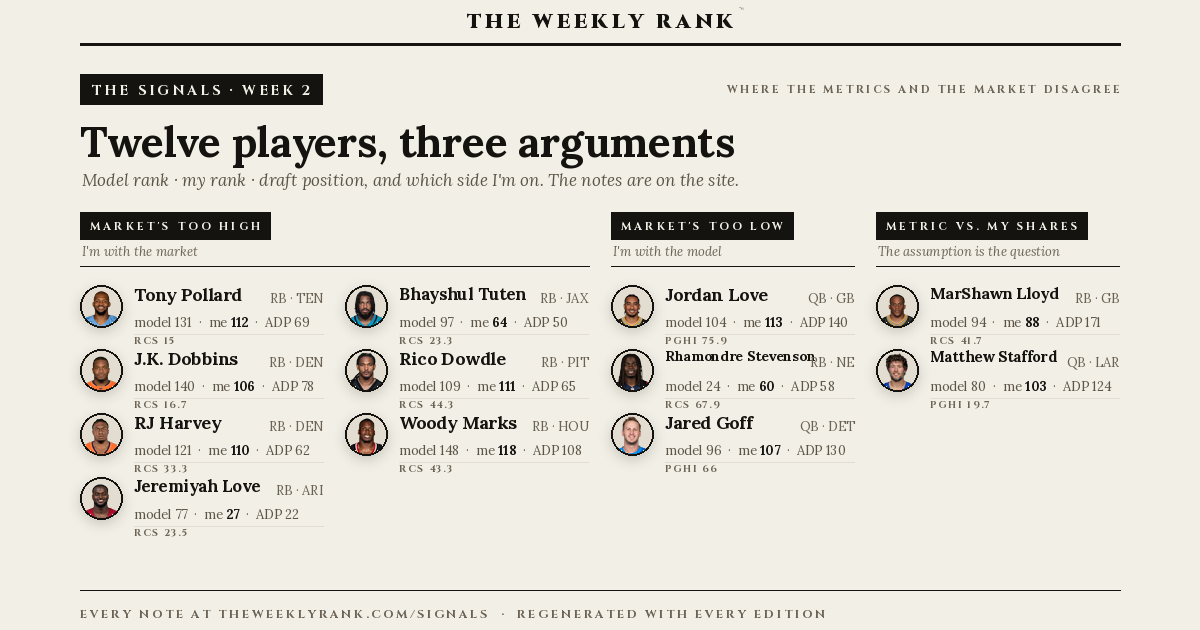
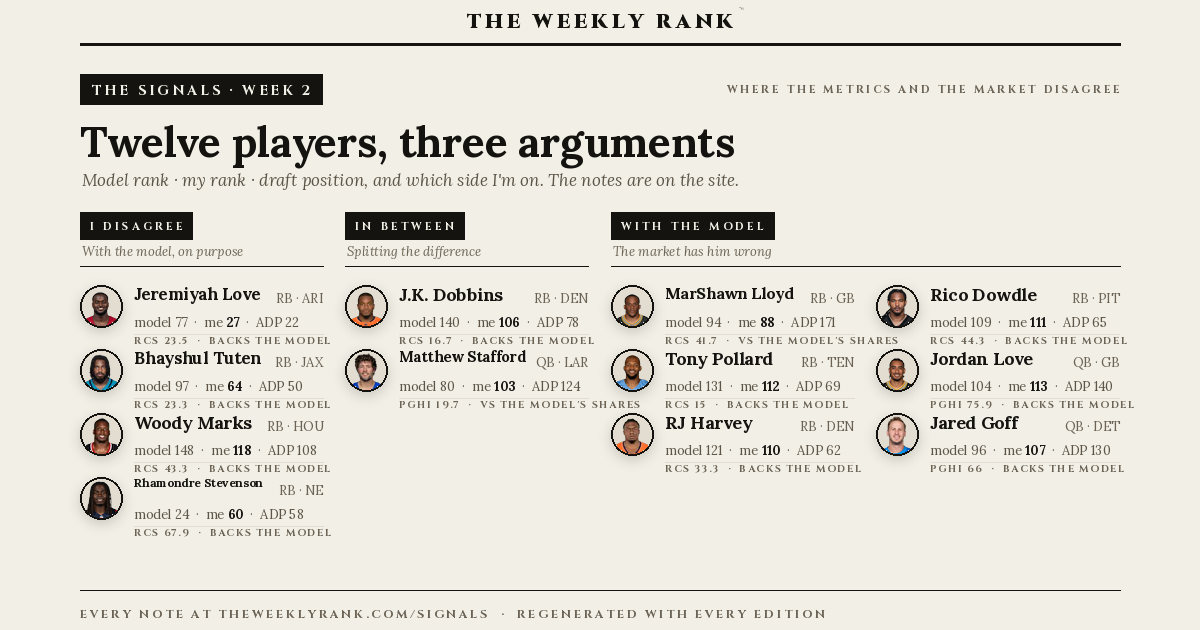
Signals: group by my stance (disagree with the model · in between · with the model); the metric's verdict stays on the row

diff --git a/src/_data/rankings.js b/src/_data/rankings.js
@@ -71,20 +71,31 @@ function loadSport(sport) {
 
 const keyOf = name => String(name || "").toLowerCase().replace(/[^a-z0-9 ]/g, "").replace(/\s+(jr|sr|ii|iii|iv)$/, "").trim();
 
-// the four signal groups in order, labels from the file's signalsMeta when it carries them
+// The Signals page groups by Costa's stance, not by the metric's direction (Sept 16): readers asked whose side
+// he is on, and "market's too high" was wrong for a player he had deliberately ranked near the market. Stance is
+// where his rank sits on the line from the market (ADP) to the model: past 65% of the way to the model is "with
+// the model", under 35% is "disagree with the model", the middle is "in between". The metric's own verdict
+// (backs the model, or argues with the model's shares) stays on the row as text. Same rule in make_signals_card.py.
 const SIGNAL_BOARD_MAX = 120;   // a signal on a player ranked below this is bench noise
 const SIGNAL_PAGE_MAX = 12;     // the page is a short list, not a census
-const SIGNAL_GROUPS = [["backs-over", "Metric backs model over market"], ["backs-under", "Metric backs model under market"],
-                       ["disagree", "Metric and shares disagree"], ["share-only", "Share-driven gap, no metric"]];
+const STANCES = [["market", "I disagree with the model", "My rank sits closer to the market, on purpose."],
+                 ["between", "I'm in between", "Splitting the difference between the model and the market."],
+                 ["model", "I'm with the model", "The market has him wrong, and the model and I agree."]];
+const METRIC_SAYS = { "backs-over": "backs the model", "backs-under": "backs the model", "disagree": "argues with the model's shares", "share-only": "no metric" };
+function stanceOf(s) {
+  const m = s.modelRank, a = s.adp, r = s.finalRank;
+  if (![m, a, r].every(v => typeof v === "number") || m === a) return "between";
+  const t = (a - r) / (a - m);                 // 0 = at the market, 1 = at the model
+  return t >= 0.65 ? "model" : t <= 0.35 ? "market" : "between";
+}
 function groupSignals(wk, players) {
-  const labels = new Map(SIGNAL_GROUPS);
-  ((wk.signalsMeta && wk.signalsMeta.groups) || []).forEach(g => { if (g && g.id && g.label) labels.set(g.id, g.label); });
   const byName = new Map(players.map(p => [p.player, p]));
   const signals = (wk.signals || []).filter(s => s && s.player).map(s => {
     const p = byName.get(s.player) || null;
-    if (p) labels.has(s.group) || labels.set(s.group, s.group);
-    return { ...s, onPage: !!p, finalRank: (typeof s.finalRank === "number") ? s.finalRank : (p ? p.rank : null),
-             headshot: (p && p.headshot) || HEADSHOTS[keyOf(s.player)] || null };
+    const full = { ...s, onPage: !!p, finalRank: (typeof s.finalRank === "number") ? s.finalRank : (p ? p.rank : null),
+                   headshot: (p && p.headshot) || HEADSHOTS[keyOf(s.player)] || null, metricSays: METRIC_SAYS[s.group] || "" };
+    full.stance = stanceOf(full);
+    return full;
   });
   // The page shows only signals worth a reader's time (Sept 9): a metric has to be behind it and say something
   // (strong or weak, never neutral), the player has to be on the published board inside SIGNAL_BOARD_MAX, and
@@ -95,8 +106,8 @@ function groupSignals(wk, players) {
     .filter(s => typeof s.finalRank === "number" && s.finalRank <= SIGNAL_BOARD_MAX)
     .sort((a, b) => Math.abs(b.gap || 0) - Math.abs(a.gap || 0))
     .slice(0, SIGNAL_PAGE_MAX);
-  return [...labels.keys()].map(id => ({ id, label: labels.get(id),
-    items: shown.filter(s => s.group === id).sort((a, b) => Math.abs(b.gap || 0) - Math.abs(a.gap || 0)) }))
+  return STANCES.map(([id, label, sub]) => ({ id, label, sub,
+    items: shown.filter(s => s.stance === id).sort((a, b) => Math.abs(b.gap || 0) - Math.abs(a.gap || 0)) }))
     .filter(g => g.items.length);
 }
 
@@ -262,8 +273,9 @@ function buildPlayers(weeks) {
       .concat((wk.cusp || []).filter(c => c.team === p.team && c.pos === p.pos).map(c => ({ player: c.player, rank: null, share: null, onSite: false })))
       .sort((a, b) => (b.share || 0) - (a.share || 0));
     const sgRaw = (wk.signals || []).find(sg => sg.player === p.player) || null;
-    const sgGroup = sgRaw ? (wk.signalGroups || []).find(g => g.id === sgRaw.group) : null;
-    const signal = sgRaw ? { ...sgRaw, groupLabel: sgGroup ? sgGroup.label : sgRaw.group } : null;
+    const sgStance = sgRaw ? stanceOf({ ...sgRaw, finalRank: (typeof sgRaw.finalRank === "number") ? sgRaw.finalRank : p.rank }) : null;
+    const sgGroup = sgRaw ? STANCES.find(([id]) => id === sgStance) : null;
+    const signal = sgRaw ? { ...sgRaw, groupLabel: sgGroup ? sgGroup[1] : sgRaw.group, metricSays: METRIC_SAYS[sgRaw.group] || "" } : null;
     const mentions = articles.filter(a => a.body.includes(p.player)).sort((a, b) => (a.date < b.date ? 1 : -1))
       .map(({ url, title, summary, date }) => ({ url, title, summary, date }));
     return {
